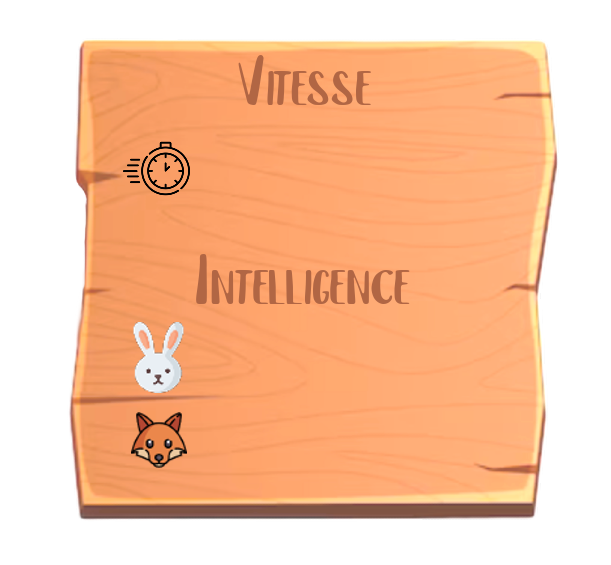
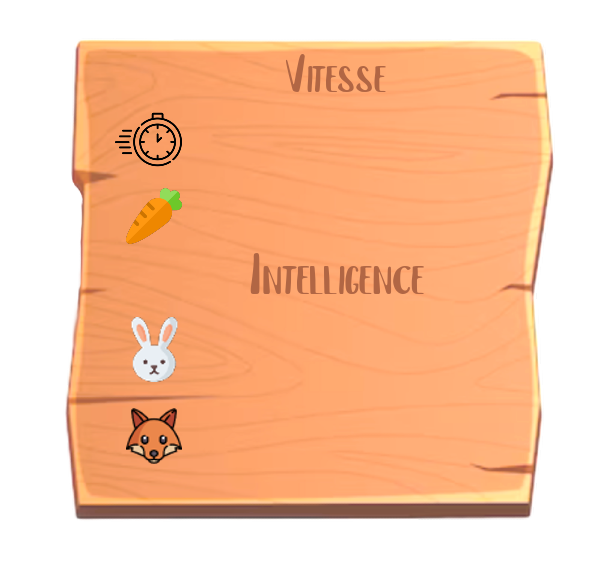
Mise à jour des images et des paramètres de la grille et de la vitesse dans la vue de bienvenue

diff --git a/src/view/grid_view.py b/src/view/grid_view.py
@@ -7,25 +7,25 @@ from constants import *
 class GridView:
     def __init__(self, screen, grid):
         self.screen = screen
-        self.grid = grid
-        self.cell_size = SCREEN_HEIGHT // self.grid.size
+        self.grid = grid    
         self.font = pygame.font.Font(None, 36)
+        self.grid_size = 800
+        self.cell_size = self.grid_size // self.grid.size
         self.load_background_images()
         self.init_values()
         self.reset_click_states()
-        
         self.init_ui_elements()
         self.hide_widgets()
 
-    def draw_graph(self):
+    def draw_graph(self, width_ratio, height_ratio):
         # Taille et position du graphique sur l'écran Pygame
-        graph_width = 400
-        graph_height = 200
-        graph_origin = (800, 500)  # Déplacer si nécessaire
+        graph_width = 570 * width_ratio
+        graph_height = 250 * height_ratio
+        graph_origin = (835 * width_ratio, 470 * height_ratio)
 
         # Surface pour le graphique
         graph_surface = pygame.Surface((graph_width, graph_height))
-        graph_surface.fill((255, 255, 255))  # Fond blanc
+        graph_surface.fill((255, 167, 109))  # Fond blanc
 
         # Blit le graphique sur l'écran principal
         self.screen.blit(graph_surface, graph_origin)
@@ -60,33 +60,34 @@ class GridView:
         return current_width / SCREEN_WIDTH, current_height / SCREEN_HEIGHT
     
     def load_background_images(self):
-        
+        width_ratio, height_ratio = self.calculate_ratios()
         self.background_image = self.load_image('assets/background_grid.jpg', self.screen.get_width(), self.screen.get_height())
-        self.info_box_background = self.load_image("assets/info_box.png", 340, 235)
-        self.turn_background = self.load_image("assets/tour.png", 230, 120)
-        self.setting_background = self.load_image("assets/settings.png", 390, 280)
-        self.legend_background = self.load_image("assets/legende.png", 390, 280)
+        self.turn_background = self.load_image("assets/tour.png", 310 * width_ratio, 140 * height_ratio)
+        self.info_box_background = self.load_image("assets/info_box.png", 330 * width_ratio, 365 * height_ratio)
+        self.setting_background = self.load_image("assets/settings.png", 380 * width_ratio, 280 * height_ratio)
+        self.legend_background = self.load_image("assets/legende.png", 330 * width_ratio, 280 * height_ratio)
 
     def init_ui_elements(self):
         width_ratio, height_ratio = self.calculate_ratios()
         
-        taille_x, taille_y = int(58 * width_ratio), int(58 * height_ratio)
+        taille_x, taille_y = int(70 * width_ratio), int(70 * height_ratio)
         self.buttons = {
-            'back': self.create_button(int(1115 * width_ratio), int(735 * height_ratio), taille_x, taille_y, "assets/return.png", self.toggle_click_state, 'back_clicked'),
-            'play': self.create_button(int(1035 * width_ratio), int(30 * height_ratio), taille_x, taille_y, "assets/play.png", self.toggle_pause_play),
-            'pause': self.create_button(int(1035 * width_ratio), int(30 * height_ratio), taille_x, taille_y, "assets/pause.png", self.toggle_pause_play),
-            'next_step': self.create_button(int(1115 * width_ratio), int(30 * height_ratio), taille_x, taille_y, "assets/next.png", self.toggle_click_state, 'next_step_clicked')
+            'back': self.create_button(int(1050 * width_ratio), int(750 * height_ratio), 150, 40, "assets/return.png", self.toggle_click_state, 'back_clicked', 200, 100),
+            'play': self.create_button(int(1190 * width_ratio), int(110 * height_ratio), taille_x, taille_y, "assets/play.png", self.toggle_pause_play),
+            'pause': self.create_button(int(1190 * width_ratio), int(110 * height_ratio), taille_x, taille_y, "assets/pause.png", self.toggle_pause_play),
+            'next_step': self.create_button(int(1300 * width_ratio), int(110 * height_ratio), taille_x, taille_y, "assets/next.png", self.toggle_click_state, 'next_step_clicked')
         }
         
         taille_x, taille_y = int(160 * width_ratio), int(15 * height_ratio)
         self.sliders = {
-            'speed': self.create_slider(int(940 * width_ratio), int(287 * height_ratio), taille_x, taille_y, 1, 10, 1, self.grid.speed),
-            'smart_rabbit': self.create_slider(int(940 * width_ratio), int(385 * height_ratio), taille_x, taille_y, 1, 3, 1, self.grid.smart_level_rabbit),
-            'smart_fox': self.create_slider(int(940 * width_ratio), int(423 * height_ratio), taille_x, taille_y, 1, 3, 1, self.grid.smart_level_fox)
+            'speed': self.create_slider(int(920 * width_ratio), int(254 * height_ratio), taille_x, taille_y, 1, 10, 1, self.grid.speed),
+            'carrot_spawn_speed': self.create_slider(int(920 * width_ratio), int(287 * height_ratio), taille_x, taille_y, 2, 10, 2, self.grid.carrot_spawn_speed),
+            'smart_rabbit': self.create_slider(int(920 * width_ratio), int(362 * height_ratio), taille_x, taille_y, 1, 3, 1, self.grid.smart_level_rabbit),
+            'smart_fox': self.create_slider(int(920 * width_ratio), int(400 * height_ratio), taille_x, taille_y, 1, 3, 1, self.grid.smart_level_fox)
         }
 
-    def create_button(self, x, y, taille_x, taille_y, image_path, onclick_function, click_state=None):
-        image = self.load_image(image_path, 100, 80) # Ajuster la taille de l'image si nécessaire
+    def create_button(self, x, y, taille_x, taille_y, image_path, onclick_function, click_state=None, path_taille_x=120, path_taille_y=110):
+        image = self.load_image(image_path, path_taille_x, path_taille_y)
         if click_state is not None:
             return Button(self.screen, x, y, taille_x, taille_y, inactiveColour=(245, 245, 245), pressedColour=(245, 245, 245),hoverColour=(245, 245, 245), image=image, onClick=lambda: onclick_function(click_state), radius=90)
         else:
@@ -112,57 +113,74 @@ class GridView:
 
     def render(self):
         self.screen.blit(self.background_image, (0, 0))
+        #self.draw_grid() pour debeug jour J
         self.draw_cells()
         self.draw_widgets()
-        self.draw_graph()
         pygame_widgets.update(pygame.event.get())
 
     def draw_widgets(self):
-        self.draw_info_box()
-        self.draw_turn()
-        self.draw_legend()
-        self.draw_settings()
+        width_ratio, height_ratio = self.calculate_ratios()
+        self.draw_turn(width_ratio, height_ratio)
+        self.draw_info_box(width_ratio, height_ratio)
+        self.draw_settings(width_ratio, height_ratio)
+        self.draw_legend(width_ratio, height_ratio)
+        self.draw_graph(width_ratio, height_ratio)
+        
 
+    def draw_grid(self):
+        width_ratio, height_ratio = self.calculate_ratios()
+        square_rect = pygame.Rect((10,10), (800 * width_ratio, 800 * height_ratio))
+        pygame.draw.rect(self.screen, (0, 90, 0), square_rect)
+        
     def draw_cells(self):
+        width_ratio, height_ratio = self.calculate_ratios()
+        
+        cell_size = self.grid_size / self.grid.size
+        
         for i in range(self.grid.size):
             for j in range(self.grid.size):
-                rect = pygame.Rect(10 + j * self.cell_size, 10 + i * self.cell_size, self.cell_size, self.cell_size)
-                pygame.draw.rect(self.screen, self.get_cell_color(i, j), rect)
-                pygame.draw.rect(self.screen, (0, 90, 0), rect, 1)
+                cell_x = (10 + j * cell_size) * width_ratio
+                cell_y = (10 + i * cell_size) * height_ratio
+                cell_rect = pygame.Rect(cell_x, cell_y, cell_size, cell_size)
+                pygame.draw.rect(self.screen, self.get_cell_color(i, j), cell_rect, width =0)
+                pygame.draw.rect(self.screen, (0, 90, 0), cell_rect, 1)
 
-    def draw_settings(self):
-        self.screen.blit(self.setting_background, (800, 210))
+
+    def draw_settings(self, width_ratio, height_ratio):
+        self.screen.blit(self.setting_background, (790 * width_ratio, 190 * height_ratio))
         
         slider_positions = {
-            'speed': (1128, 293),
-            'smart_rabbit': (1128, 391),
-            'smart_fox': (1128, 429)
+            'speed': (1107 * width_ratio, 260 * height_ratio),
+            'carrot_spawn_speed': (1106 * width_ratio, 293 * height_ratio),
+            'smart_rabbit': (1104 * width_ratio, 368 * height_ratio),
+            'smart_fox': (1104 * width_ratio, 406 * height_ratio)
         }
         
         for name, (x, y) in slider_positions.items():
             slider = self.sliders[name]
             slider.draw()
-            self.draw_text(str(slider.getValue()), x, y)
+            self.draw_text(str(slider.getValue()), x, y, font_size=int(36 * height_ratio))
 
-    def draw_legend(self):
-        self.screen.blit(self.legend_background, (800, 460))
-        self.draw_text(f"{self.count_carrot}", 995, 520)
-        self.draw_text(f"{self.count_rabbit}", 995, 600)
-        self.draw_text(f"{self.count_fox}", 995, 680)
+    def draw_legend(self, width_ratio, height_ratio):
+        self.screen.blit(self.legend_background, (1110 * width_ratio, 190 * height_ratio))
+        
+        self.draw_text(f"{self.count_carrot}", 1274 * width_ratio, 250 * height_ratio, font_size=int(36 * height_ratio))
+        self.draw_text(f"{self.count_rabbit}", 1274 * width_ratio, 330 * height_ratio, font_size=int(36 * height_ratio))
+        self.draw_text(f"{self.count_fox}", 1274 * width_ratio, 405 * height_ratio, font_size=int(36 * height_ratio))
     
-    def draw_turn(self):
-        self.screen.blit(self.turn_background, (800, 0))
-        self.draw_text(f"{self.turn}", 918, 77)
+    def draw_turn(self, width_ratio, height_ratio):
+        self.screen.blit(self.turn_background, (1120 * width_ratio, -22 * height_ratio))
+        self.draw_text(f"{self.turn}", 1275 * width_ratio , 70 * height_ratio, font_size=int(36 * height_ratio))
 
-    def draw_info_box(self):
-        self.screen.blit(self.info_box_background, (830, 40))
+    def draw_info_box(self, width_ratio, height_ratio):
+        self.screen.blit(self.info_box_background, (820 * width_ratio, -90 * height_ratio))
         
         if self.selected_cell:
-            text_y = 140  
+            text_y = 80 * height_ratio  
             lines = self.selected_cell_info.split('- ')
             for line in lines:
-                self.draw_text(line, 1005, text_y, font_size=24)
-                text_y += 30
+                self.draw_text(line, 983 * width_ratio, text_y, font_size=int(30 * height_ratio))
+                text_y += 30 * height_ratio
 
     def get_cell_color(self, i, j):
         cell_element = self.grid.cells[i][j].element

diff --git a/src/view/welcome_view.py b/src/view/welcome_view.py
@@ -28,7 +28,7 @@ class WelcomeView:
         slider_x = button_x
         slider_grid_y, slider_speed_y = int(610 * height_ratio), int(700 * height_ratio)
 
-        self.slider_grid = self.create_slider(slider_x, slider_grid_y, slider_width, slider_height, 30, 140, 10, 30)
+        self.slider_grid = self.create_slider(slider_x, slider_grid_y, slider_width, slider_height, 40, 150, 30, 40)
         self.slider_speed = self.create_slider(slider_x, slider_speed_y, slider_width, slider_height, 1, 10, 1, 1)
 
         self.font = pygame.font.Font(None, int(36 * height_ratio))
@@ -81,6 +81,14 @@ class WelcomeView:
         self.setting_clicked = False
 
     def get_grid_size(self):
+        if self.slider_grid.getValue() == 60:
+            return 50
+        elif self.slider_grid.getValue() == 90:
+            return 80
+        elif self.slider_grid.getValue() == 120:
+            return 100
+        elif self.slider_grid.getValue() == 150:
+            return 160
         return self.slider_grid.getValue()
 
     def get_speed(self):

diff --git a/src/model/grid.py b/src/model/grid.py
@@ -11,6 +11,7 @@ class Grid:
         self.speed = speed
         self.smart_level_rabbit = smart_level_rabbit
         self.smart_level_fox = smart_level_fox
+        self.carrot_spawn_speed = TURN_SPAWN_CARROT
         self.cells = [[Cell() for _ in range(size)] for _ in range(size)]
         self.entity_positions = {}
         self.init_entities(default_rabbits, default_foxes)
